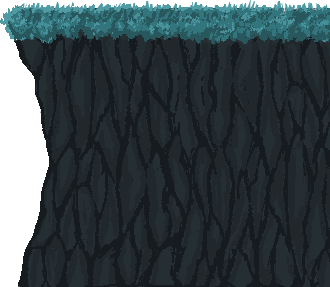
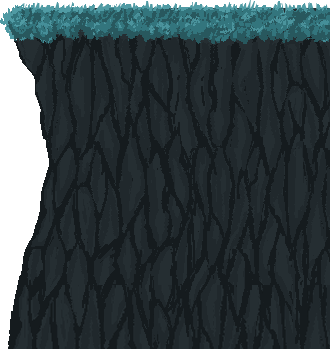
Add bit masks and new cliff.

Changed region(s): [[0.0, 0.0, 1.0, 0.3624], [0.0, 0.3624, 0.1515, 1.0]]

diff --git a/Lemming-Party/GameScene.m b/Lemming-Party/GameScene.m
@@ -10,6 +10,11 @@
 
 @implementation GameScene
 
+// Bitmasks
+static const uint32_t sceneryCategory  = 0x1 << 0;  // 00000000000000000000000000000001
+static const uint32_t sandCategory = 0x1 << 1; // 00000000000000000000000000000010
+static const uint32_t lemmingCategory = 0x1 << 2;  // 00000000000000000000000000000100
+
 -(void)didMoveToView:(SKView *)view {
     /* Setup your scene here */
     
@@ -33,6 +38,7 @@
     floor.texture = [SKTexture textureWithImage:[UIImage imageNamed:@"platform.png"]];
     floor.physicsBody = [SKPhysicsBody bodyWithRectangleOfSize:CGSizeMake(2400, 200)];
     floor.physicsBody.dynamic = NO;
+    floor.physicsBody.categoryBitMask = sceneryCategory;
     [self addChild:floor];
     
     // Create the cliff
@@ -41,7 +47,15 @@
     cliff.texture = [SKTexture textureWithImage:[UIImage imageNamed:@"cliff.png"]];
     cliff.physicsBody = [SKPhysicsBody bodyWithTexture:cliff.texture size:cliff.texture.size];
     cliff.physicsBody.dynamic = NO;
+    floor.physicsBody.categoryBitMask = sceneryCategory;
     [self addChild:cliff];
+    
+    // Create the spaceship
+    SKSpriteNode *spaceship = [SKSpriteNode spriteNodeWithImageNamed:@"spaceship.png"];
+    spaceship.position = CGPointMake(100, 320);
+    spaceship.texture = [SKTexture textureWithImage:[UIImage imageNamed:@"spaceship.png"]];
+    
+    [self addChild:spaceship];
     
     // SEND IN THE LEMMINGS!!!
     [self createAmountOfLemmings:10];
@@ -52,7 +66,7 @@
     
     for (UITouch *touch in touches) {
         CGPoint location = [touch locationInNode:self];
-        for(int i = 0; i <3; i++){
+        for(int i = 0; i < 3; i++){
             
             
             SKSpriteNode *sand = [SKSpriteNode spriteNodeWithImageNamed:@"sand-particle"];
@@ -132,6 +146,7 @@
         lemming.texture = [SKTexture textureWithImage:[UIImage imageNamed:@"lemming.png"]];
         lemming.physicsBody = [SKPhysicsBody bodyWithTexture:lemming.texture size:lemming.texture.size];
         lemming.physicsBody.allowsRotation = NO;
+        lemming.physicsBody.categoryBitMask = lemmingCategory;
         
         [self addChild:lemming];
         

diff --git a/Lemming-Party/GameScene.h b/Lemming-Party/GameScene.h
@@ -10,6 +10,8 @@
 
 @interface GameScene : SKScene
 
+
+
 @end
 
 NSMutableArray *sandParticles ;
